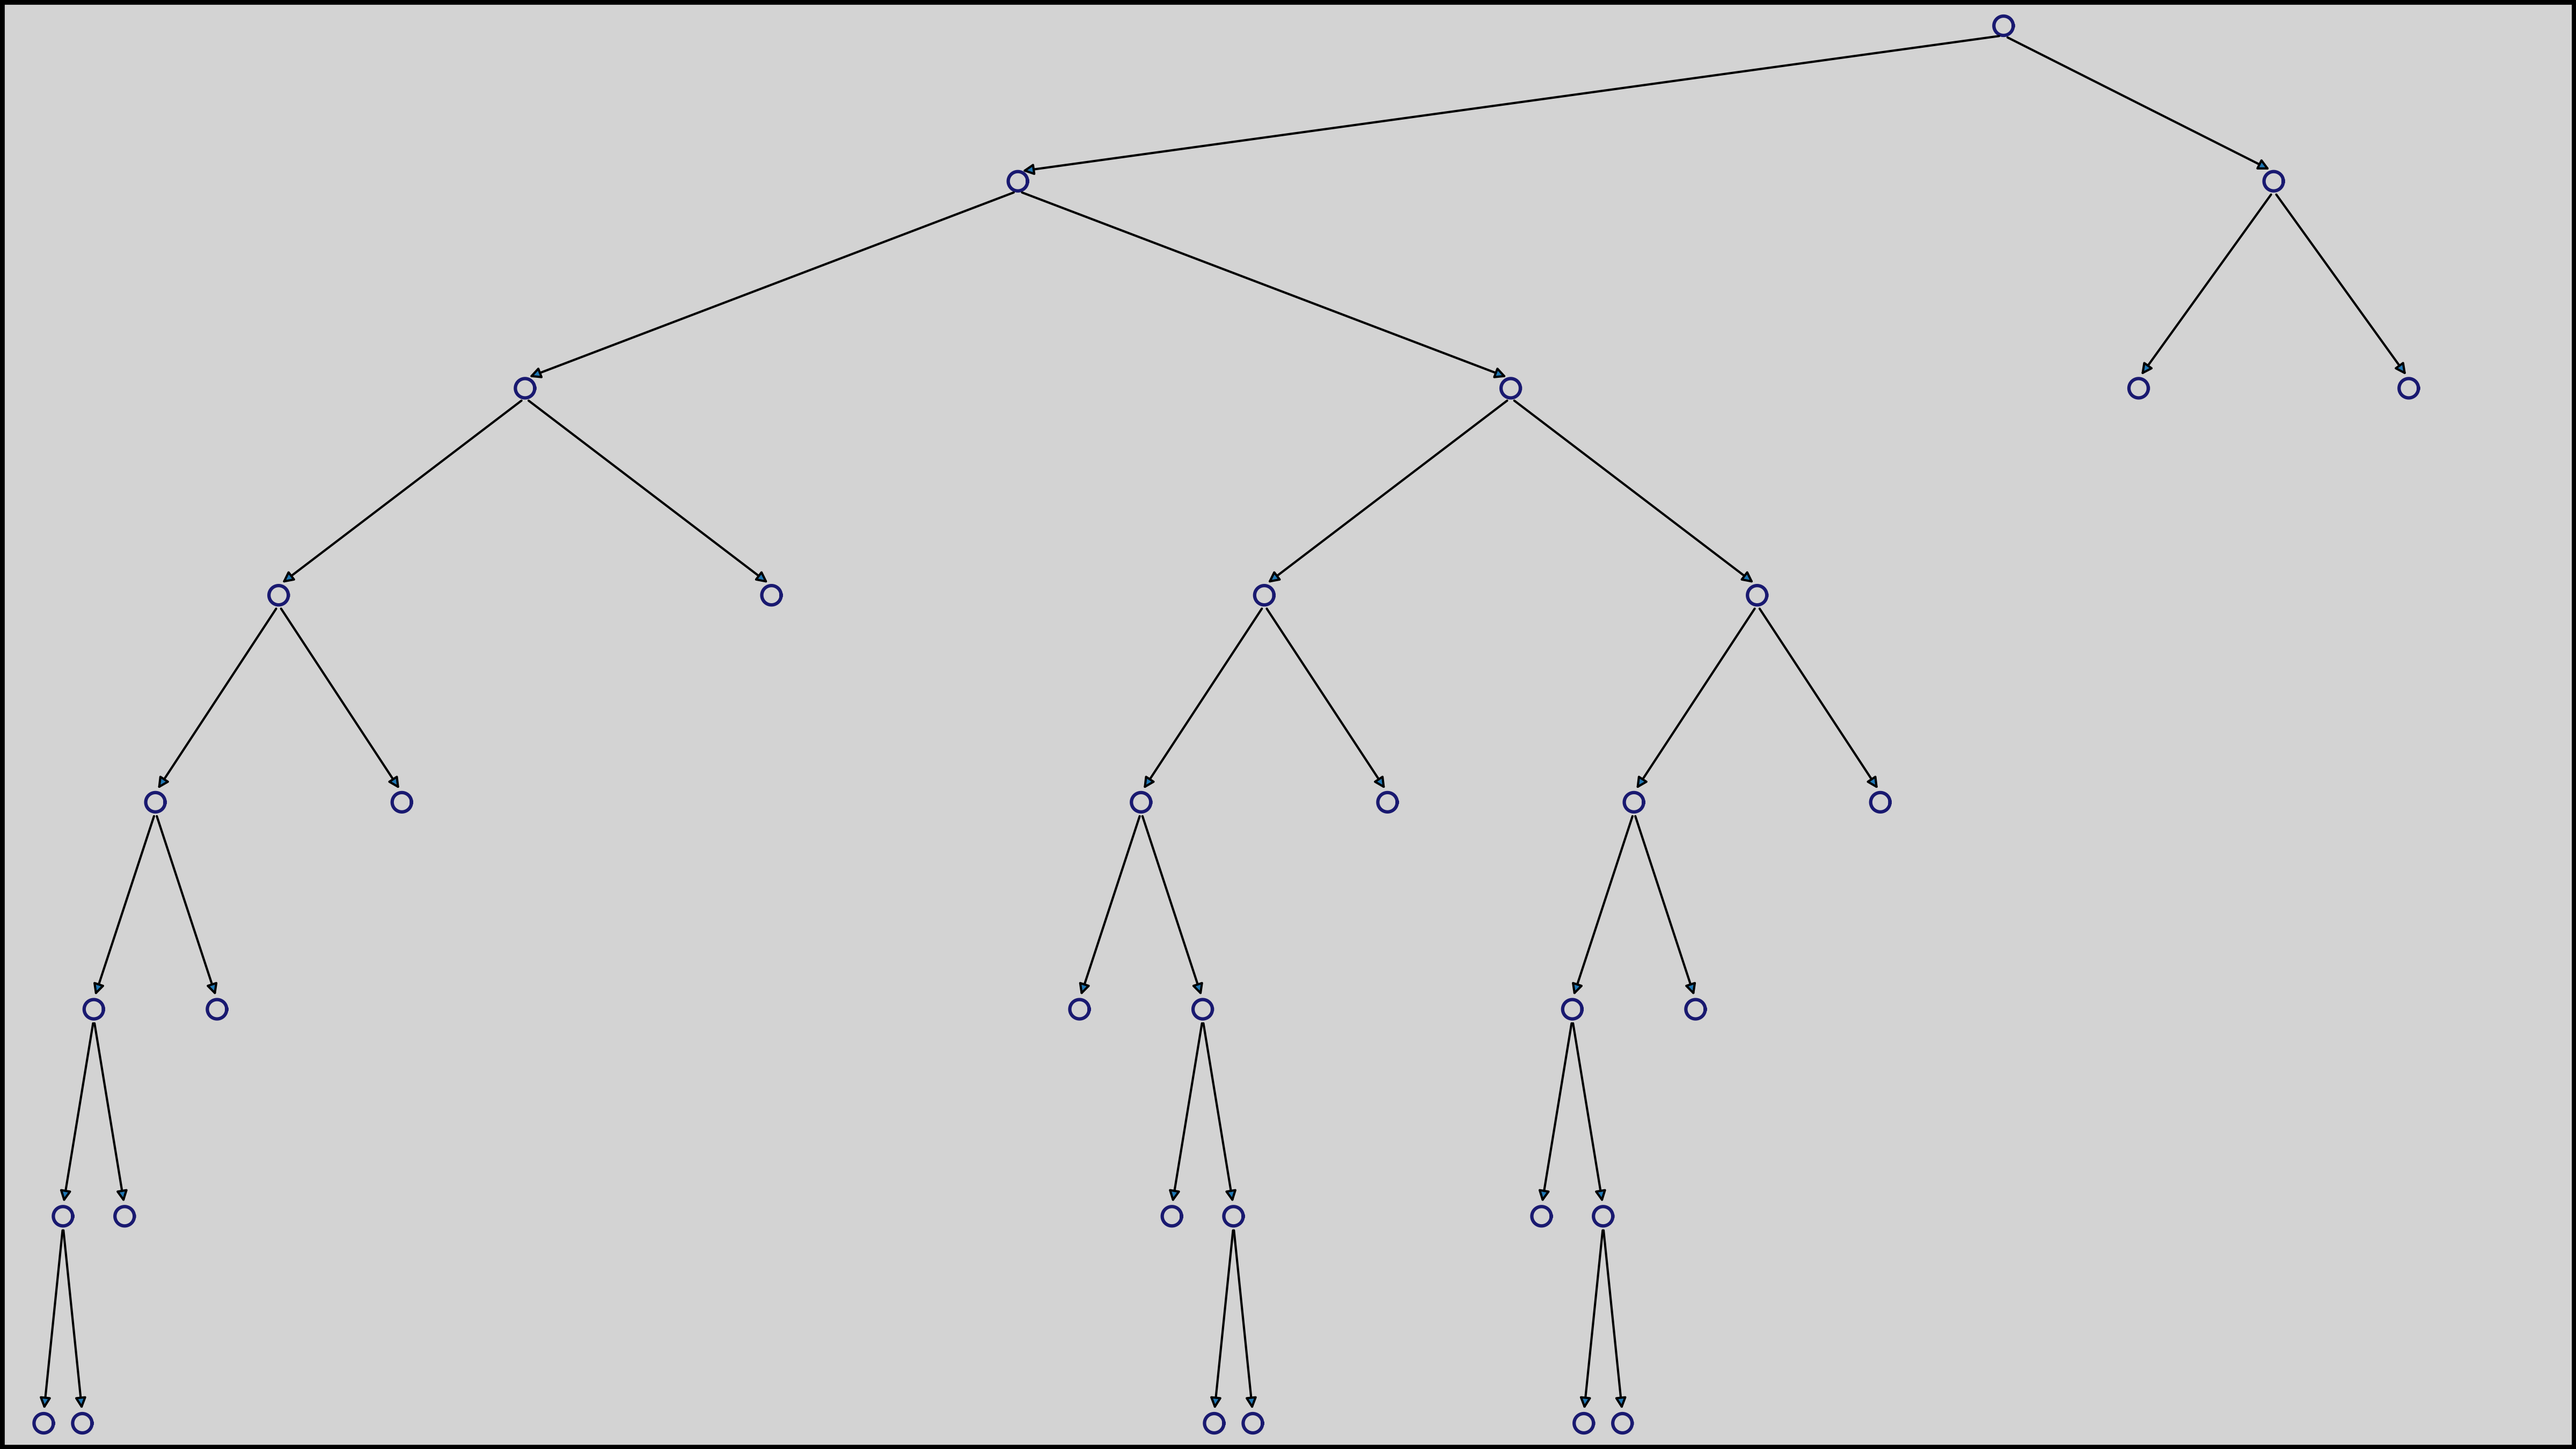
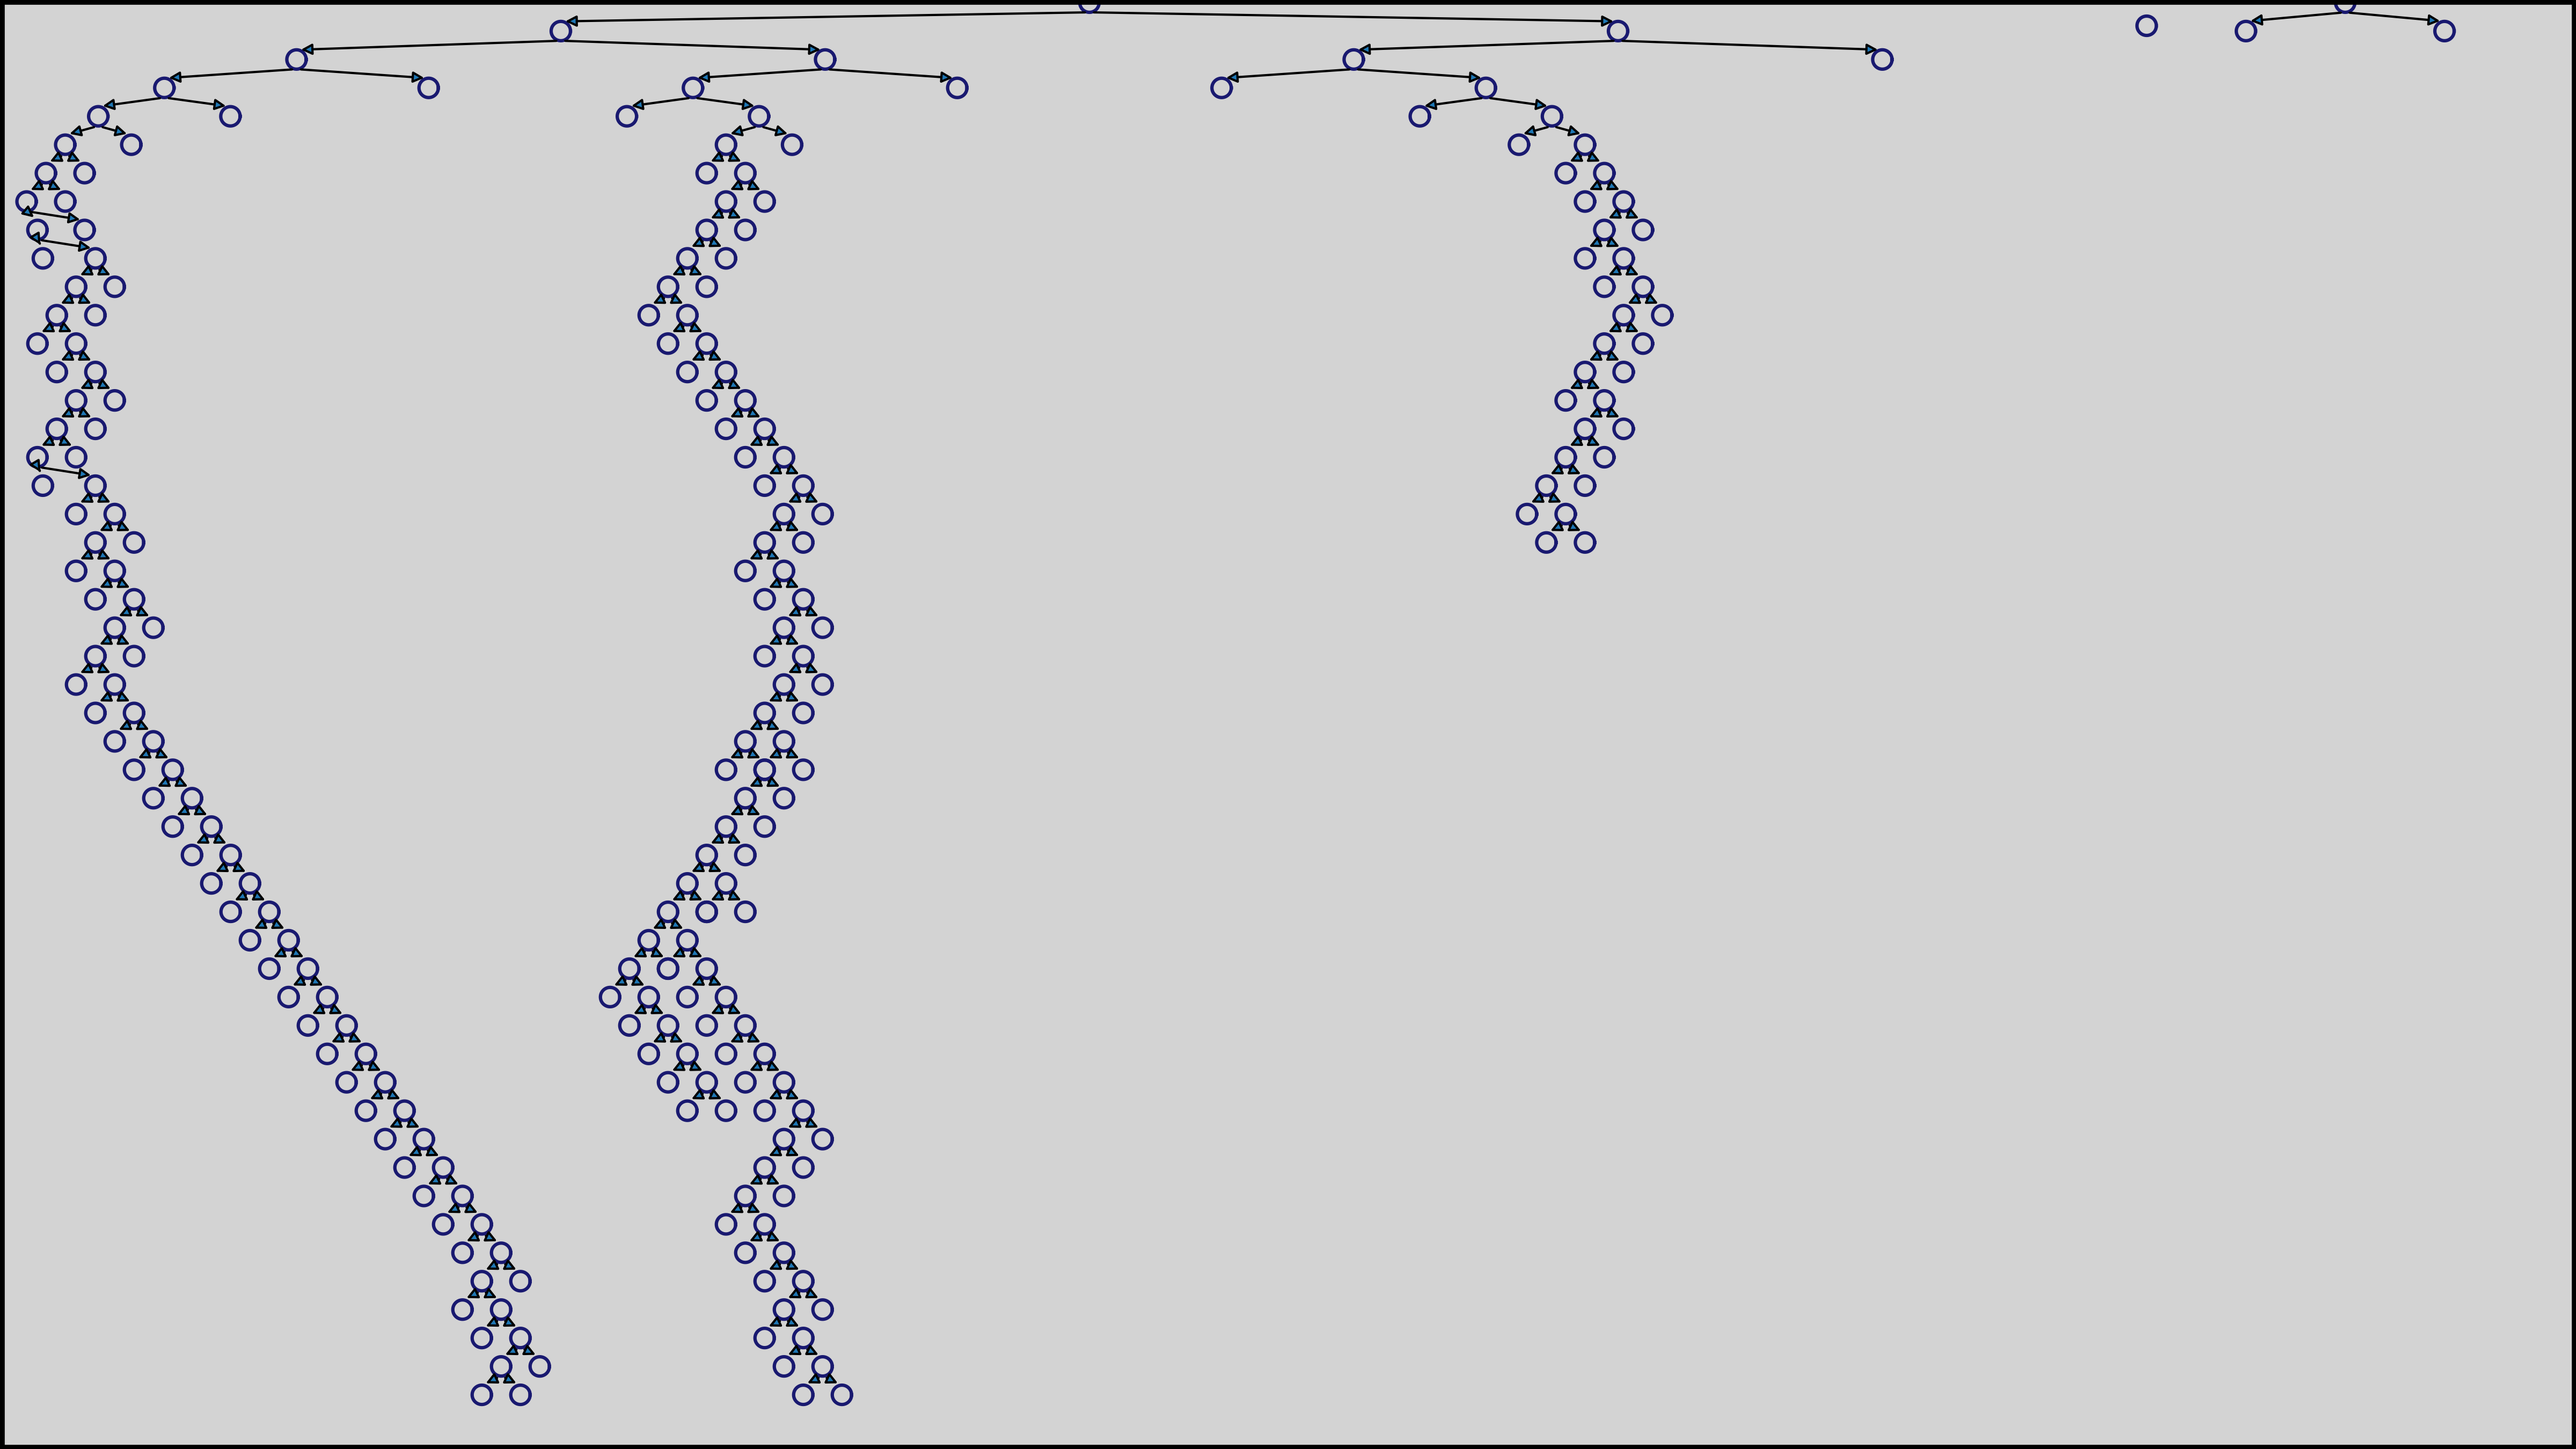
debugging stuff

diff --git a/Decision_Tree_Classifier.py b/Decision_Tree_Classifier.py
@@ -114,15 +114,24 @@ class Tree:
     right_counter = 0
     max_tree_depth = 0
 
+    def find_max_depth(curr_node):
+      
+      if curr_node.room is not None:
+        return curr_node.depth
+      else:
+        L_depth = find_max_depth(curr_node.left)
+        R_depth = find_max_depth(curr_node.right)
+        
+        return L_depth if (L_depth > R_depth) else R_depth
+
+    max_tree_depth = find_max_depth(self.head)
+    
+    
     root = self.head
     while True:
 
       if root.left is not None:
         left_counter += 1
-
-        if root.depth > max_tree_depth:
-          max_tree_depth = root.depth
-
         root = root.left
       else:
         break
@@ -131,10 +140,6 @@ class Tree:
     while True:
       if root.right is not None:
         right_counter += 1
-
-        if root.depth > max_tree_depth:
-          max_tree_depth = root.depth
-
         root = root.right
       else:
         break
@@ -334,21 +339,31 @@ class Node:
   """Node constructor"""
   def __init__(self, dataset, TreeDepth=0,  split_resolution=20, split_threshold=0):
 
+    #print("\n\n\n\----------------------------------------------------------------")
+    #print(TreeDepth)
+    
+    
     self.depth = TreeDepth
     x_values, categories = extract_categories(dataset)
     [labels, counts] = np.unique(categories, return_counts=True)
+    #print(labels)
+    #print("There are {} labels".format(len(labels)))
     if(len(labels) == 1):
+      #print("test1")
       self.room = labels[0]
       self.left = None
       self.right = None
       return
-    elif(TreeDepth == depth):
+    elif(TreeDepth == int(depth)):
+      if(len(labels) == 1): print("help")
+      #print("test2")
       majority = labels[np.argmax(counts)]
       self.room = majority
       self.left = None
       self.right = None
       return
     else:
+      #print("test3")
       self.room = None
       dataset_a, dataset_b, split, feature = find_split(dataset, split_resolution, split_threshold=split_threshold)
       self.left = Node(dataset_a, TreeDepth + 1)

diff --git a/main.py b/main.py
@@ -16,6 +16,7 @@ print("Tree depth:", depth)
 dataset = np.loadtxt(dataset_path)
 
 test = Decision_Tree_Classifier.Tree(dataset)
+#print(test.evaluate([[-68,	-58,	-65,	-65,	-76,	-87,	-82,	1]]))
 test.show()
 
 #benchmark = TB.Model_Comparison_TB(dataset, 10, Decision_Tree_Classifier.Tree, Other_Classifiers.RandomClassifier, Other_Classifiers.NNClassifier)
